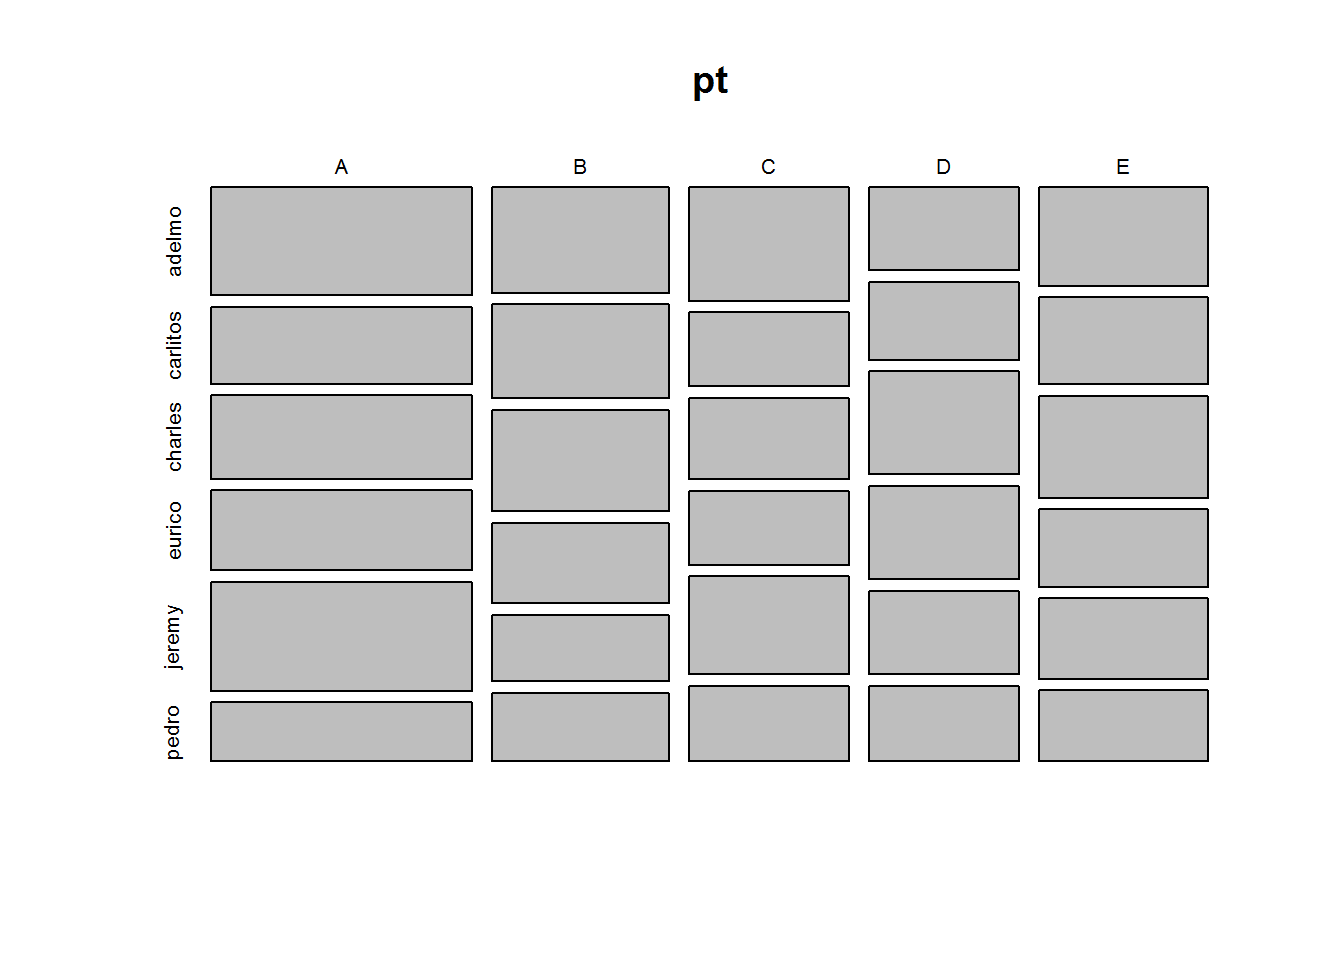
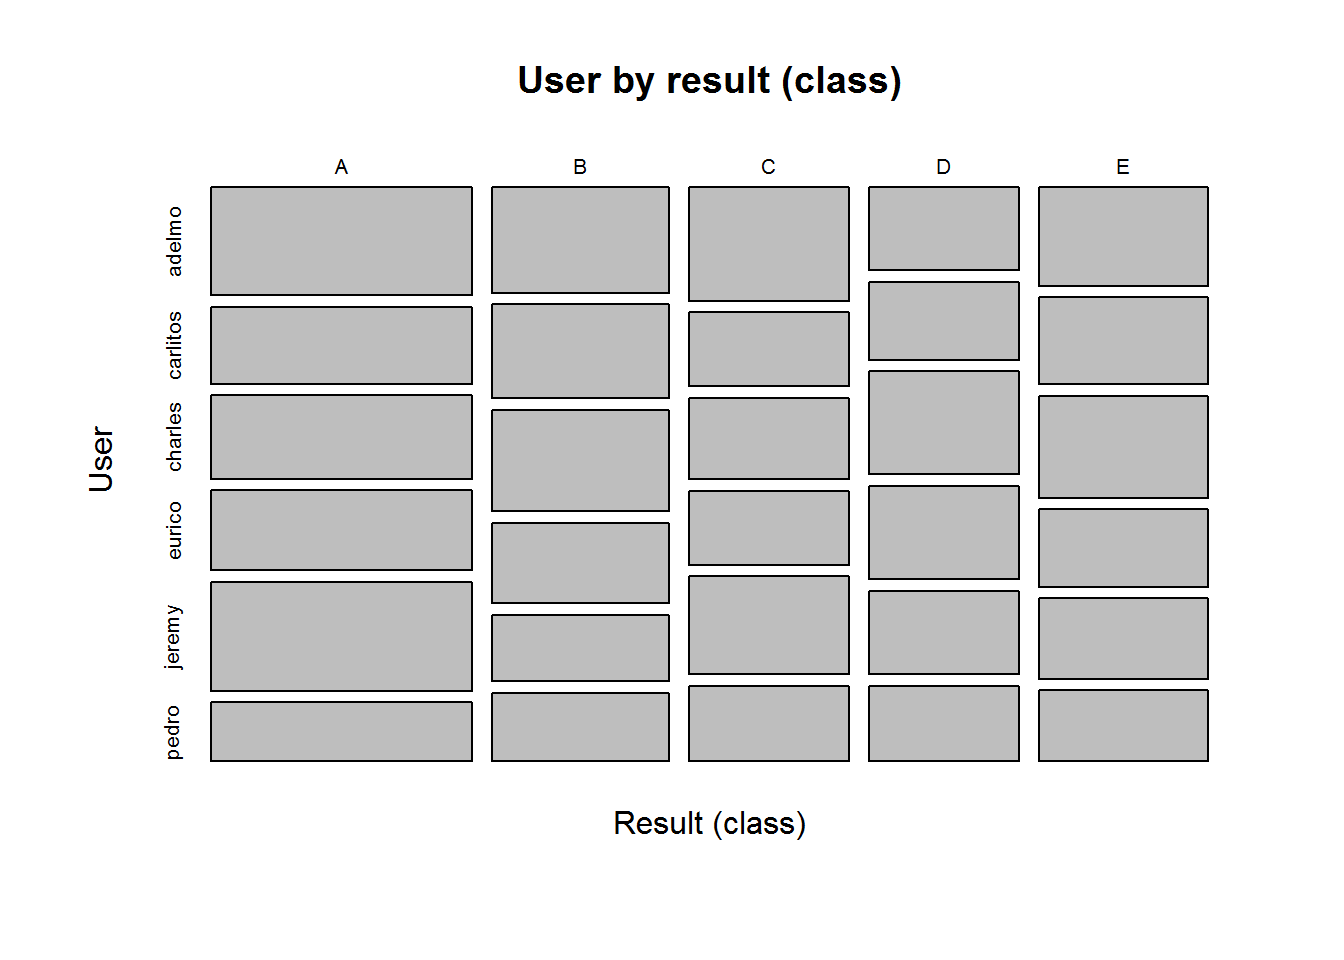
Assignment Submission

Changed region(s): [[0.375, 0.0625, 0.6875, 0.125], [0.4375, 0.8438, 0.5938, 0.875], [0.0625, 0.4375, 0.0938, 0.5]]

diff --git a/mchl_assignment.html b/mchl_assignment.html
@@ -70,7 +70,14 @@ img {
 
 <div id="introdution" class="section level2">
 <h2>Introdution</h2>
-<p>The objective of this assignment is to predict how well 6 participants are doing Dumbbell Biceps Curls. The result can be one of 5 values: - Class A: Performed exactly according to the specification - Class B: Throwing the elbows to the front - Class C: Lifting the dumbbell only halfway - Class D: Lowering the dumbbell only halfway - Class E: Throwing the hips to the front (Class E).</p>
+<p>The objective of this assignment is to predict how well 6 participants are doing Dumbbell Biceps Curls. The result can be one of 5 values:</p>
+<ul>
+<li>Class A: Performed exactly according to the specification</li>
+<li>Class B: Throwing the elbows to the front</li>
+<li>Class C: Lifting the dumbbell only halfway</li>
+<li>Class D: Lowering the dumbbell only halfway</li>
+<li>Class E: Throwing the hips to the front (Class E).</li>
+</ul>
 <p>Read more: <a href="http://groupware.les.inf.puc-rio.br/har#ixzz42TYBTu3f" class="uri">http://groupware.les.inf.puc-rio.br/har#ixzz42TYBTu3f</a></p>
 <p>Two datasets are provided: pml-training.csv and pml-testing.csv. These datasets have the same columns, with the exeption of the last one, where the training data contains the result for each observations (classes described above), and the testing data includes a problem id, instead of the result.</p>
 <p>We’ll follow a 6 step process:</p>
@@ -90,7 +97,7 @@ img {
 <ul>
 <li>Remove the columns that contain NA’s</li>
 <li>Remove colums that are not relevant to the prediction (for example the user name)</li>
-<li>Remove the columns that contains blank data in one or more rows</li>
+<li>Remove the columns that contain blank data in one or more rows</li>
 </ul>
 <pre class="r"><code>library(caret)</code></pre>
 <pre><code>## Loading required package: ggplot2</code></pre>
@@ -119,7 +126,6 @@ data &lt;- data[, !names(data) %in% names(data)[blank.columns]]
 
 # Remove the columns that are not relevant for the analysis
 
-#data$user_name &lt;- NULL
 data$raw_timestamp_part_1 &lt;- NULL
 data$raw_timestamp_part_2 &lt;- NULL
 data$cvtd_timestamp &lt;- NULL
@@ -392,9 +398,13 @@ kable(cor_matrix[cor_matrix$Correlation  &gt; 0.8, ])</code></pre>
 </table>
 <pre class="r"><code>t &lt;- table(data$classe, data$user_name)
 pt &lt;- prop.table(t)
-plot(pt)</code></pre>
[1 lines of base64/hex data omitted]
-<p><strong>Conclusions:</strong> - There are multiple variables that are correlated, so we’ll use PCA to create a new set of features that are uncorrelated and explain as much variance as possible - There are differences between the users, so we’ll keep it as a feature for the training model, along with the accelerometer data</p>
+plot(pt, main=&quot;User by result (class)&quot;, xlab = &quot;Result (class)&quot;, ylab= &quot;User&quot;)</code></pre>
[1 lines of base64/hex data omitted]
+<p><strong>Conclusions:</strong></p>
+<ul>
+<li>There are multiple variables that are correlated, so we’ll use PCA to create a new set of features that are uncorrelated and explain as much variance as possible</li>
+<li>There are differences between the users, so we’ll keep it as a feature for the training model, along with the accelerometer data</li>
+</ul>
 </div>
 <div id="step-4-reduce-and-summarize-features-through-pca" class="section level2">
 <h2>Step 4: Reduce and summarize features through PCA</h2>
@@ -405,7 +415,7 @@ plot(pt)</code></pre>
 
 preProc &lt;- preProcess(train.data[, -54], method=&quot;pca&quot;)
 train.data.PC &lt;- predict(preProc, train.data[, -54])</code></pre>
-<p><strong>Result:</strong> PCA achives a ~48% reduction in the number of features, creating a new dataset with 25 features, instead of the 52 we had in the original one. This removes the correlation between the features, and accelerates the execution of the prediction algorithm</p>
+<p><strong>Result:</strong> PCA achives a ~50% reduction in the number of features, creating a new dataset with 26 features, instead of the 53 we had in the original one. This removes the correlation between the features, and accelerates the execution of the prediction algorithm</p>
 </div>
 <div id="step-5-train-the-prediction-models-with-the-new-set-of-features." class="section level2">
 <h2>Step 5: Train the prediction models with the new set of features.</h2>
@@ -487,10 +497,14 @@ kable(results)</code></pre>
 
 test.data.PC &lt;- predict(preProc, test.data[, -54])
 
-cm_rf &lt;- confusionMatrix(predict(modelFit_rf, test.data.PC), test.data$classe)
-cm_rpart &lt;- confusionMatrix(predict(modelFit_rpart, test.data.PC), test.data$classe)
-cm_svm &lt;- confusionMatrix(predict(modelFit_svm, test.data.PC), test.data$classe)
-cm_knn &lt;- confusionMatrix(predict(modelFit_knn, test.data.PC), test.data$classe)
+cm_rf &lt;- confusionMatrix(predict(modelFit_rf, test.data.PC), test.data$classe)</code></pre>
+<pre><code>## Loading required package: randomForest
+## randomForest 4.6-12
+## Type rfNews() to see new features/changes/bug fixes.</code></pre>
+<pre class="r"><code>cm_rpart &lt;- confusionMatrix(predict(modelFit_rpart, test.data.PC), test.data$classe)
+cm_svm &lt;- confusionMatrix(predict(modelFit_svm, test.data.PC), test.data$classe)</code></pre>
+<pre><code>## Loading required package: kernlab</code></pre>
+<pre class="r"><code>cm_knn &lt;- confusionMatrix(predict(modelFit_knn, test.data.PC), test.data$classe)
 
 Model  &lt;- c(&quot;Trees with 10-fold cross validation&quot;, &quot;SVM with 10-fold cross validation&quot;, &quot;KNN with 10-fold cross validation&quot;, &quot;Random forest bootstrap resampling&quot;)
 
@@ -542,13 +556,13 @@ kable(results)</code></pre>
 </tr>
 </tbody>
 </table>
-<p>** Conclusion: ** None of the algorithms is overfitting, as the out-of-sample error is very similar to the in-sample error. Random Forest is the method that will be used for predictions</p>
+<p><strong>Conclusion:</strong> None of the algorithms is overfitting, as the out-of-sample error is very similar to the in-sample error. Random Forest is the method that will be used for predictions</p>
 </div>
 <div id="step-7-predict-the-values-on-the-testing-data-provided-in-the-assignment" class="section level2">
 <h2>Step 7: Predict the values on the testing data provided in the assignment</h2>
 <ul>
 <li>Load the data</li>
-<li>Apply same clean up rules as with the training data</li>
+<li>Apply same clean up rules we did in the training data</li>
 <li>Apply the PCA model to calculate the new set of features for the testing data</li>
 <li>Predict the values for the 20 observations</li>
 </ul>
@@ -568,7 +582,6 @@ final.data &lt;- final.data[, !names(final.data) %in% names(final.data)[na.colum
 
 final.data &lt;- final.data[, !names(final.data) %in% names(final.data)[blank.columns]]
 
-#final.data$user_name &lt;- NULL
 final.data$raw_timestamp_part_1 &lt;- NULL
 final.data$raw_timestamp_part_2 &lt;- NULL
 final.data$cvtd_timestamp &lt;- NULL
@@ -583,7 +596,7 @@ final.data.PC &lt;- predict(preProc, final.data[, -54])
 # Predict the values for classe for the 20 observations
 
 pred &lt;- predict(modelFit_rf, final.data.PC)</code></pre>
-<p>** Note: ** Output not shown, to be compliant with Cursera’s honor code</p>
+<p><strong>Note:</strong> Output not shown, to be compliant with Cursera’s honor code</p>
 </div>
 
 
